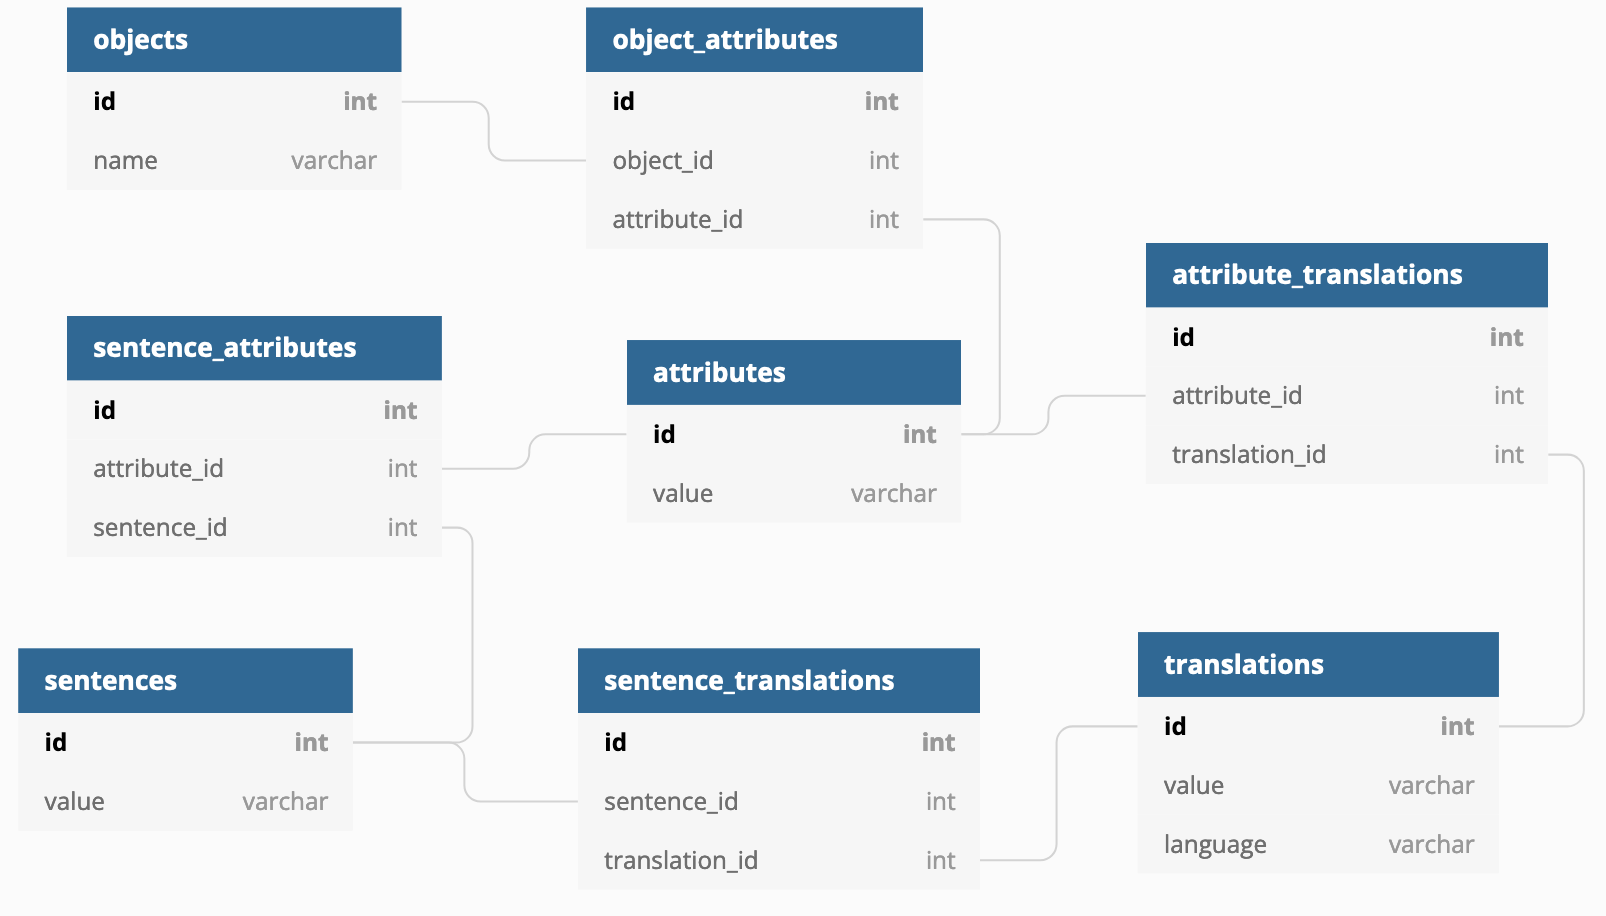
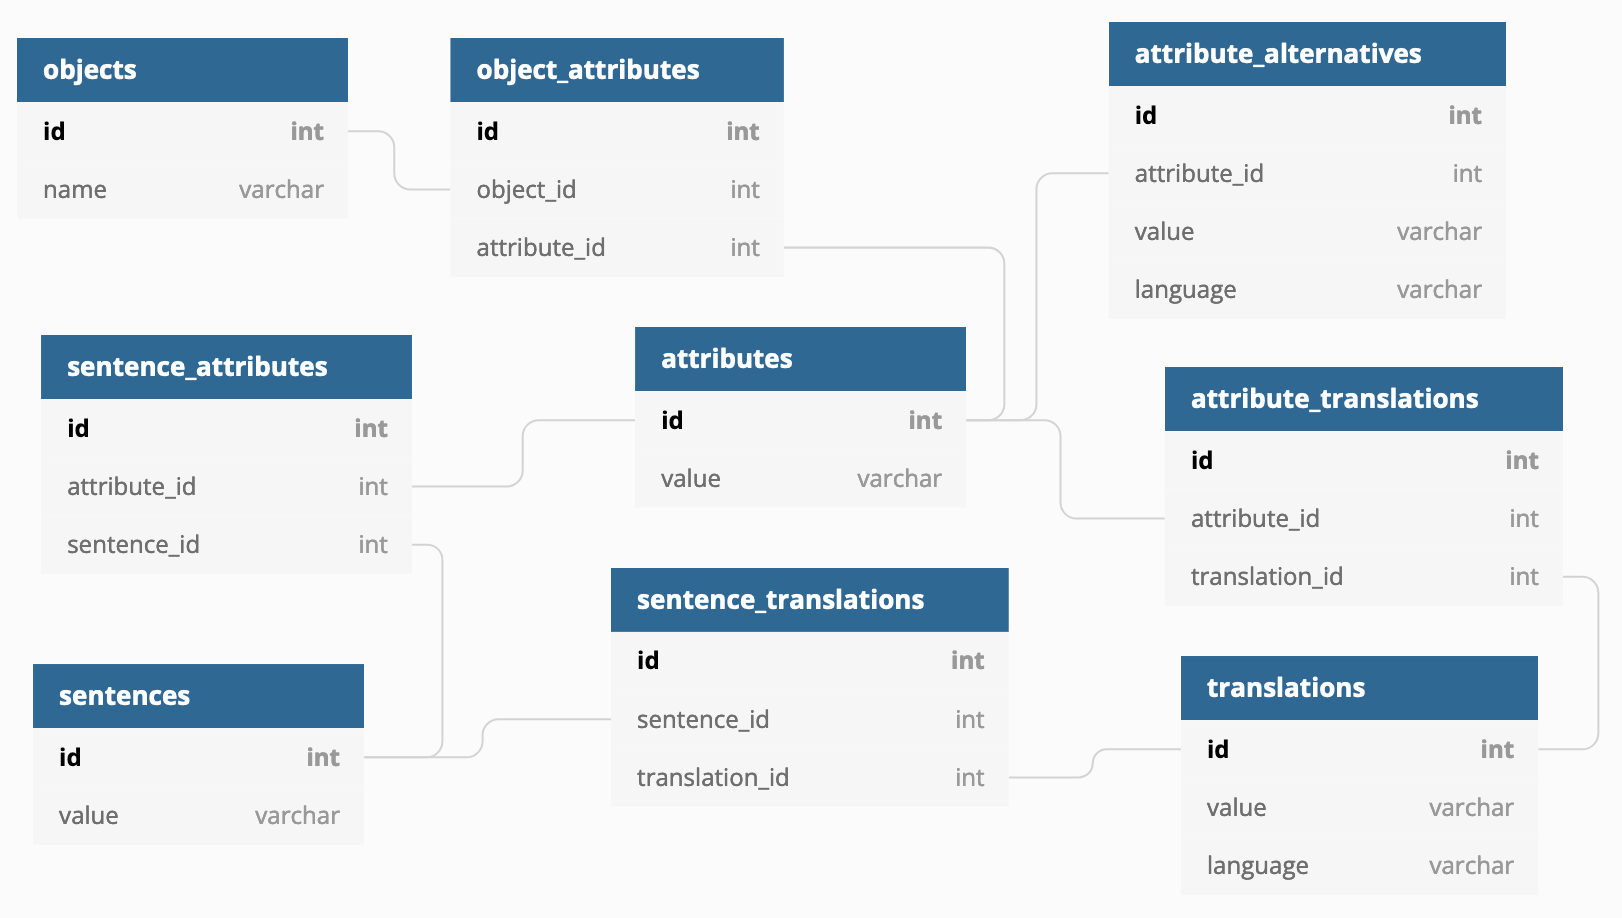
added implementation for similar translated attributes

diff --git a/database/seeders/SentenceAttributesSeeder.php b/database/seeders/SentenceAttributesSeeder.php
@@ -4,6 +4,7 @@ namespace Database\Seeders;
 
 use App\Models\Sentence;
 use App\Models\Attribute;
+use App\Models\AttributeAlternative;
 use App\Models\AttributeTranslation;
 use App\Models\Translation;
 use Illuminate\Database\Seeder;
@@ -23,7 +24,7 @@ class SentenceAttributesSeeder extends Seeder
 
         $sentencesWithAttributes = json_decode($sentencesJson, true);
 
-        $languages = ['es'];
+        $languages = ['en', 'es'];
 
         foreach ($sentencesWithAttributes as $data) {
             $sentence = Sentence::create([
@@ -47,17 +48,8 @@ class SentenceAttributesSeeder extends Seeder
                 'sentence_id' => $sentence->id
             ]);
 
-            if (isset($data['alternatives'])) {
-                foreach ($data['alternatives'] as $alternative) {
-                    $alternativeAttribute = Attribute::create([
-                        'value' => $alternative
-                    ]);
-
-                    SentenceAttribute::create([
-                        'attribute_id' => $alternativeAttribute->id,
-                        'sentence_id' => $sentence->id
-                    ]);
-                }
+            foreach ($languages as $language) {
+                $this->addAlternativeAttribute($attribute, $data, $language);
             }
         }
     }
@@ -96,5 +88,22 @@ class SentenceAttributesSeeder extends Seeder
             'attribute_id' => $attribute->id,
             'translation_id' => $translation->id
         ]);
+    }
+
+    protected function addAlternativeAttribute(Attribute $attribute, array $data, string $language): void
+    {
+        if (!isset($data['alternatives_' . $language])) {
+            return;
+        }
+
+        $alternatives = $data['alternatives_' . $language];
+
+        foreach ($alternatives as $alternative) {
+            AttributeAlternative::create([
+                'attribute_id' => $attribute->id,
+                'value' => $alternative,
+                'language' => $language,
+            ]);
+        }
     }
 }

diff --git a/app/Services/VerifyAttributeAnswerService.php b/app/Services/VerifyAttributeAnswerService.php
@@ -6,6 +6,7 @@ use App\Constants\QuestionType;
 use App\Models\Attribute;
 use App\Repositories\AttributeRepository;
 use App\Structs\AttributeAnswerStruct;
+use Illuminate\Support\Facades\Log;
 use Illuminate\Support\Facades\Session;
 
 class VerifyAttributeAnswerService
@@ -29,8 +30,13 @@ class VerifyAttributeAnswerService
             $value = $attributeRepository->getAttributeValueFromTranslation($value, $learnLanguage);
         }
 
-        $relatedSentence = Attribute::where('value', strtolower($value))
-            ->first();
+        $relatedSentenceQuery = Attribute::where('value', strtolower($value))
+            ->orWhereHas('relatedAttributeAlternatives', function ($query) use ($value, $languageShort) {
+                $query->where('value', strtolower($value))
+                    ->where('language', $languageShort);
+            });
+
+        $relatedSentence = $relatedSentenceQuery->first();
 
         if (!$relatedSentence) {
             return false;
@@ -43,6 +49,8 @@ class VerifyAttributeAnswerService
         $relatedSentenceId = $relatedSentence->relatedSentence()
             ->first()
             ->id;
+
+        Log::error($relatedSentenceId);
 
         return $answerSentenceId === $relatedSentenceId;
     }

diff --git a/database/migrations/2021_12_17_072521_create_attribute_alternatives_table.php b/database/migrations/2021_12_17_072521_create_attribute_alternatives_table.php
@@ -1,0 +1,33 @@
+<?php
+
+use Illuminate\Database\Migrations\Migration;
+use Illuminate\Database\Schema\Blueprint;
+use Illuminate\Support\Facades\Schema;
+
+class CreateAttributeAlternativesTable extends Migration
+{
+    /**
+     * Run the migrations.
+     *
+     * @return void
+     */
+    public function up()
+    {
+        Schema::create('attribute_alternatives', function (Blueprint $table) {
+            $table->id();
+            $table->unsignedBigInteger('attribute_id');
+            $table->string('value', 25);
+            $table->string('language', 5);
+        });
+    }
+
+    /**
+     * Reverse the migrations.
+     *
+     * @return void
+     */
+    public function down()
+    {
+        Schema::dropIfExists('attribute_alternatives');
+    }
+}

diff --git a/tests/Feature/AttributesTest.php b/tests/Feature/AttributesTest.php
@@ -74,6 +74,21 @@ class AttributesTest extends TestCase
             ]);
     }
 
+    public function testSimilarTranslatedAttributeCorrect(): void
+    {
+        Session::put('learn-language', 'es-es');
+
+        $this->postJson('api/user-guess/verify-attribute', [
+            'type' => QuestionType::GAP,
+            'chosenAttribute' => 'white hair',
+            'answerAttribute' => 'pelo blanco'
+        ])
+            ->assertOk()
+            ->assertExactJson([
+                'correct' => true
+            ]);
+    }
+
     public function testVerifyAttributeWrong(): void
     {
         $this->postJson('api/user-guess/verify-attribute', [

diff --git a/app/Repositories/AttributeRepository.php b/app/Repositories/AttributeRepository.php
@@ -24,11 +24,16 @@ class AttributeRepository
 
     public function getAttributeValueFromTranslation(string $value, string $language): string
     {
-        return Translation::where('value', strtolower($value))
+        $translation = Translation::where('value', strtolower($value))
             ->byLanguage($language)
-            ->first()
-            ->relatedAttribute()
-            ->first()
-            ->value;
+            ->first();
+
+        if (isset($translation)) {
+            return $translation->relatedAttribute()
+                ->first()
+                ->value;
+        }
+
+        return $value;
     }
 }

diff --git a/app/Models/Attribute.php b/app/Models/Attribute.php
@@ -3,6 +3,7 @@
 namespace App\Models;
 
 use Illuminate\Database\Eloquent\Model;
+use Illuminate\Database\Eloquent\Relations\HasMany;
 use Illuminate\Database\Eloquent\Relations\HasOneThrough;
 
 class Attribute extends Model
@@ -34,5 +35,10 @@ class Attribute extends Model
             'id',
             'translation_id'
         );
+    }
+
+    public function relatedAttributeAlternatives(): HasMany
+    {
+        return $this->hasMany(AttributeAlternative::class, 'attribute_id');
     }
 }

diff --git a/app/Models/AttributeAlternative.php b/app/Models/AttributeAlternative.php
@@ -1,0 +1,16 @@
+<?php
+
+namespace App\Models;
+
+use Illuminate\Database\Eloquent\Model;
+use Illuminate\Database\Eloquent\Relations\HasOneThrough;
+
+class AttributeAlternative extends Model
+{
+    protected $fillable = [
+        'attribute_id',
+        'value',
+        'language',
+    ];
+    public $timestamps = false;
+}
